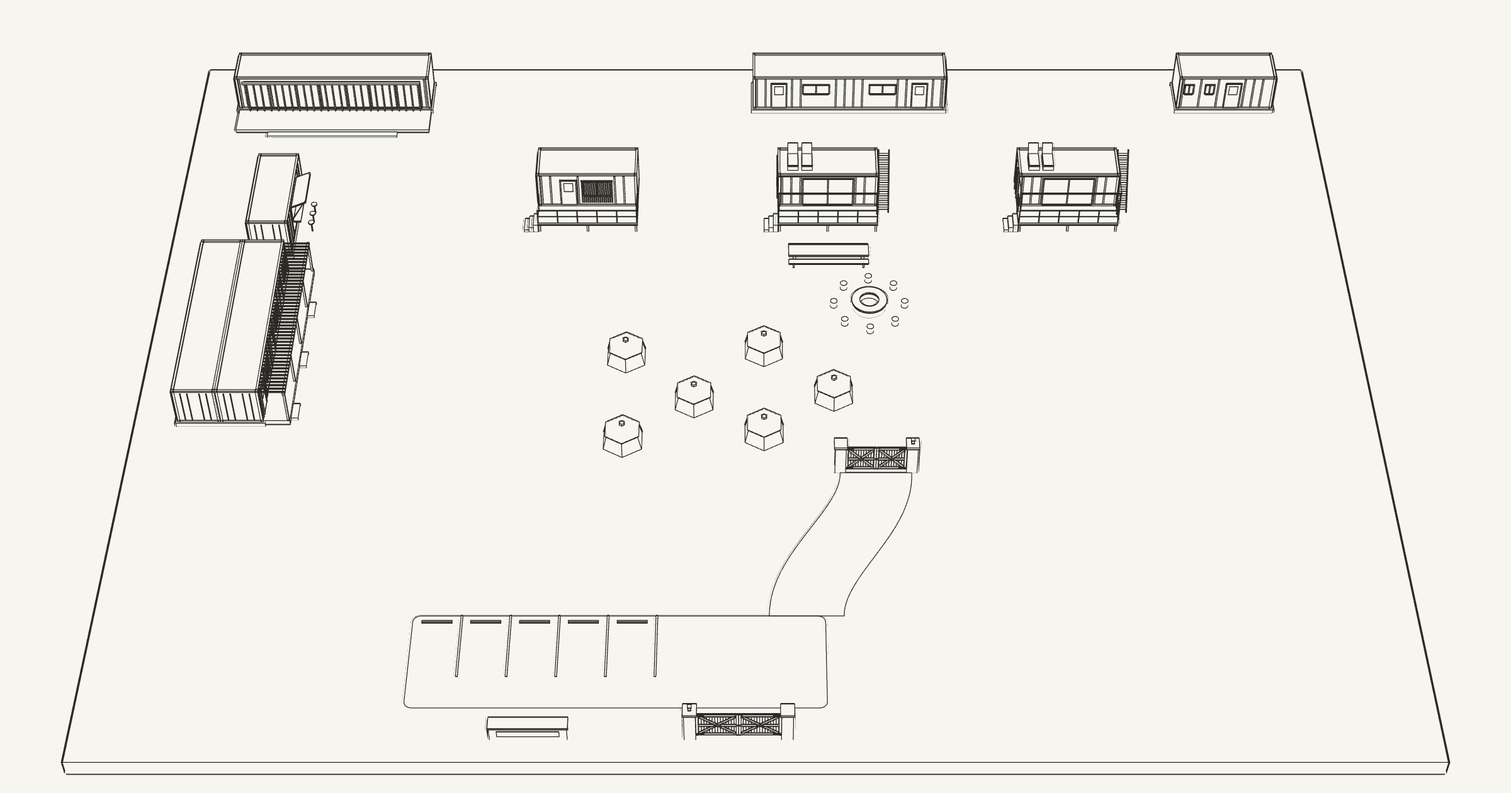
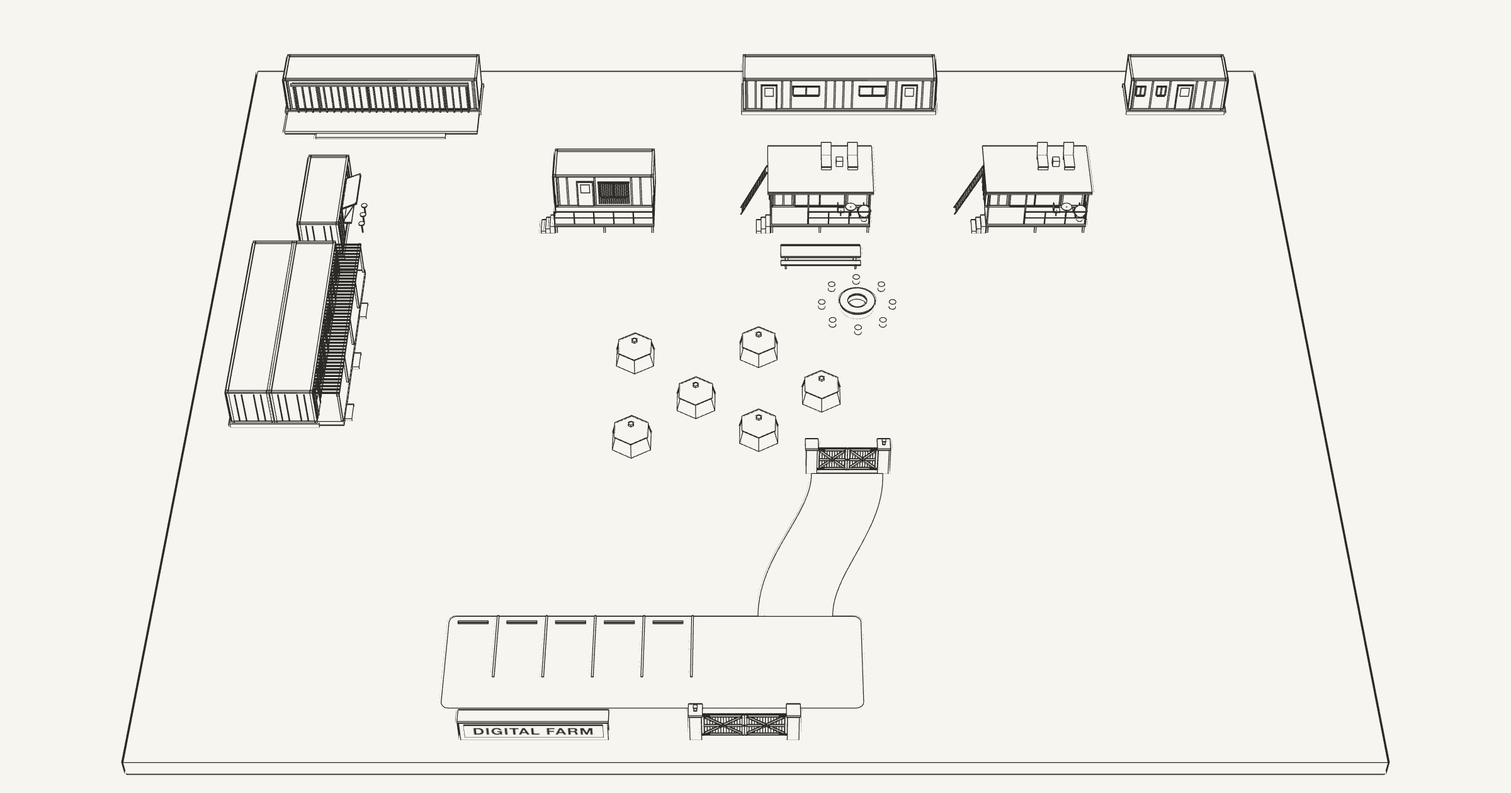
feat(home): road back in place, studios after their hero, LED sign
The founder asked for a little less sideways space, the rock road back
where it sat, the studios in the 3D to follow the hero image on
/en/studio, and a sign that clearly reads Digital Farm in LED.

The buildings now spread at 1.8. The way in (gates, sign wall, parking,
rock road) keeps the 1.5 it had (compound.json spread.wayIn), so the road
again leaves the parking well inside its east end in both drawings.

The studios go yellow under a dark steel roof that reaches over the deck
on three posts. The 3D adds a half-open dark-framed slider, the louvred
window, the rail from the middle post, a ladder at the near end where the
studio design puts its stair, timber loungers, a bistro set and a plant.
The 2D draws the ladder, rail and window.

The sign wall grows to 7.6 m with a dark steel panel of warm LED capitals.
The alt text, render brief and D-022 match.

Claude-Session: https://claude.ai/code/session_01S6J7Hi5HC8BwLHu6Wj1ANE

diff --git a/scripts/site/render/compound.html b/scripts/site/render/compound.html
@@ -6,7 +6,8 @@
   the road and the trees, and it is mirrored the way the 2D is (study room at the back, guest rooms on the
   left, D-022). Details follow the 2026-10-25 footage (public/footage): corrugated walls, white-framed
   sliding doors, red pipe railings with the deck stairs at their ends, a concrete cap on the fire pit,
-  hexagonal pop-up tents. Rendered two ways:
+  hexagonal pop-up tents. The studios follow the studio's hero (/en/studio, render/studio-hero.jpg), and the
+  sign wall carries DIGITAL FARM in LED letters. Rendered two ways:
 
     ?mode=line  line drawing in the page's ink        -> public/designs/compound/render/compound-line.png
     ?mode=real  paint, timber, stone, sun and shadow  -> public/designs/compound/render/compound-real.webp
@@ -47,13 +48,17 @@ const [FW, FH] = [2400, 1260]
 const C = await (await fetch(`/src/components/home/compound.json?${Date.now()}`)).json()
 const INK = "#2b2a26", PAGE = "#f7f5ef" // the farm theme's soil and chalk
 const HC = 2.591 // a container's height
-// The 2D sets the compound half as far apart again sideways for a wide screen (compound.json's spread),
-// every building at its true size; the model takes the same positions, so it reads as the 2D does.
+// The 2D sets the compound apart sideways for a wide screen (compound.json's spread), every building at its
+// true size; the model takes the same positions, so it reads as the 2D does. The way in (gates, sign wall,
+// parking, rock road) keeps its own, smaller spread, as on the 2D.
 {
-  const { factor, mid } = C.spread
-  const SX = (x) => mid + (x - mid) * factor
-  const shift = (x0, x1) => SX((x0 + x1) / 2) - (x0 + x1) / 2
-  const moveBox = (b) => { const d = shift(b[0], b[2]); return [b[0] + d, b[1], b[2] + d, b[3]] }
+  const spreadBy = (k) => {
+    const SX = (x) => C.spread.mid + (x - C.spread.mid) * k
+    const shift = (x0, x1) => SX((x0 + x1) / 2) - (x0 + x1) / 2
+    return { SX, shift, moveBox: (b) => { const d = shift(b[0], b[2]); return [b[0] + d, b[1], b[2] + d, b[3]] } }
+  }
+  const { SX, moveBox } = spreadBy(C.spread.factor)
+  const way = spreadBy(C.spread.wayIn)
   for (const u of C.units) u.box = moveBox(u.box)
   const unit = Object.fromEntries(C.units.map((u) => [u.id, u]))
   const rooms = unit.rooms.box
@@ -62,12 +67,12 @@ const HC = 2.591 // a container's height
   unit.bar.box = [rooms[2] - bw, unit.bar.box[1], rooms[2], unit.bar.box[3]]
   const sw = unit.study.box[2] - unit.study.box[0]
   unit.study.box = [rooms[0], unit.study.box[1], rooms[0] + sw, unit.study.box[3]]
-  const p = shift(C.parking.box[0], C.parking.box[2])
+  const p = way.shift(C.parking.box[0], C.parking.box[2])
   C.parking.box = [C.parking.box[0] + p, C.parking.box[1], C.parking.box[2] + p, C.parking.box[3]]
   C.parking.bays = C.parking.bays.map((x) => x + p)
-  C.sign = moveBox(C.sign)
-  for (const g of [C.gate, C.innerGate]) { const d = shift(g.x[0], g.x[1]); g.x = [g.x[0] + d, g.x[1] + d] }
-  C.rockRoad.curve = C.rockRoad.curve.map(([x, z]) => [SX(x), z])
+  C.sign = way.moveBox(C.sign)
+  for (const g of [C.gate, C.innerGate]) { const d = way.shift(g.x[0], g.x[1]); g.x = [g.x[0] + d, g.x[1] + d] }
+  C.rockRoad.curve = C.rockRoad.curve.map(([x, z]) => [way.SX(x), z])
   C.courtyard.firePit = [SX(C.courtyard.firePit[0]), ...C.courtyard.firePit.slice(1)]
   const cb = C.courtyard.box // the lawn widens with the spread
   C.courtyard.box = [SX(cb[0]), cb[1], SX(cb[2]), cb[3]]
@@ -234,10 +239,36 @@ const TILE = { corr: [0.278, 2.6], boards: [1.4, 1.4], grass: [9, 9], meadow: [1
 const MAP = { saffron: "corr", oxide: "corr", teal: "corr", timber: "boards", lawn: "grass", meadow: "meadow",
   murram: "murram", pavers: "pavers", setts: "setts", stone: "stone", water: "water" }
 
+// DIGITAL FARM for the sign's panel, sized to it: LED letters in warm white with their glow on dark steel,
+// or plain letters in the page's ink for the line drawing. Drawn mirrored, as the model is, so it reads.
+function ledTexture() {
+  const [x0, , x1] = C.sign, W = 2048, H = Math.round(W / (x1 - x0 - 0.5)), text = "DIGITAL FARM"
+  const c = document.createElement("canvas"); c.width = W; c.height = H
+  const g = c.getContext("2d")
+  g.fillStyle = LINE ? PAGE : "#1b1c1e"; g.fillRect(0, 0, W, H)
+  g.translate(W, 0); g.scale(-1, 1)
+  const font = (s) => { g.font = `700 ${s}px "Helvetica Neue", Helvetica, Arial, sans-serif`; g.letterSpacing = `${s * 0.06}px` }
+  font(100)
+  const size = (100 * W * 0.88) / g.measureText(text).width
+  font(size)
+  const m = g.measureText(text), y = H / 2 + (m.actualBoundingBoxAscent - m.actualBoundingBoxDescent) / 2
+  g.textAlign = "center"
+  if (LINE) { g.fillStyle = INK; g.fillText(text, W / 2, y) }
+  else {
+    g.shadowColor = "rgba(255, 210, 140, 0.9)"
+    for (const [blur, fill] of [[size * 0.3, "#ffd99a"], [size * 0.1, "#ffeccc"], [0, "#fff9ee"]]) {
+      g.shadowBlur = blur; g.fillStyle = fill; g.fillText(text, W / 2, y)
+    }
+  }
+  const t = new THREE.CanvasTexture(c)
+  t.colorSpace = THREE.SRGBColorSpace; t.anisotropy = 8
+  return t
+}
+
 // ------------------------------------------------------------ materials
 const PAINT = { saffron: "#d9a21b", oxide: "#8a3227", teal: "#3e8a86" }
 // thin parts get crease lines but no silhouette, so railings and slats stay fine in the line drawing
-const THIN = new Set(["red", "white-frame", "steel", "black", "slat", "cable", "frame-saffron", "frame-oxide", "frame-teal"])
+const THIN = new Set(["red", "white-frame", "steel", "black", "slat", "cable", "louvre", "frame-saffron", "frame-oxide", "frame-teal"])
 const MAT = {}
 function mat(name) {
   if (MAT[name]) return MAT[name]
@@ -249,7 +280,12 @@ function mat(name) {
     return (MAT[name] = m)
   }
   let x
-  if (LINE) {
+  if (name === "led") {
+    const map = ledTexture()
+    x = LINE ? new THREE.MeshBasicMaterial({ map })
+      : new THREE.MeshStandardMaterial({ map, emissiveMap: map, emissive: "#ffffff", emissiveIntensity: 1.6, roughness: 0.45, metalness: 0.2 })
+    x.userData.outlineParameters = { visible: false }
+  } else if (LINE) {
     if (name === "glass" || name === "canopy") x = new THREE.MeshBasicMaterial({ color: PAGE, transparent: true, opacity: 0, depthWrite: false })
     else x = new THREE.MeshBasicMaterial({ color: PAGE, polygonOffset: true, polygonOffsetFactor: 1, polygonOffsetUnits: 1 })
     if (THIN.has(name)) x.userData.outlineParameters = { visible: false }
@@ -276,6 +312,10 @@ function mat(name) {
       glass: () => new THREE.MeshPhysicalMaterial({ color: "#d3e3e8", roughness: 0.05, metalness: 0.1, transparent: true, opacity: 0.42, depthWrite: false }),
       canopy: () => new THREE.MeshPhysicalMaterial({ color: "#c7d3cc", roughness: 0.1, transparent: true, opacity: 0.32, depthWrite: false }),
       inside: () => std({ color: "#3b3631", roughness: 0.9 }),
+      room: () => std({ color: "#b8a993", roughness: 0.9 }), // a studio's lit room through its open slider
+      roofsheet: () => std({ color: "#4a4743", roughness: 0.6, metalness: 0.3 }), // the studios' dark steel roof
+      louvre: () => std({ color: "#dde2df", roughness: 0.2, metalness: 0.1 }), // glass blades
+      terracotta: () => std({ color: "#b0602f", roughness: 0.85 }),
       timber: () => std({ map: T.boards, color: "#ffffff", roughness: 0.75 }),
       slat: () => std({ color: "#b98250", roughness: 0.75 }),
       stone: () => std({ map: T.stone, color: "#ffffff", roughness: 0.95 }),
@@ -445,11 +485,15 @@ function gate({ x: [l, r], y, post: p }, h, lanternSide) {
   group(() => leaf(len, h), [r - 0.005, 0.03, y], 0).scale.x = -1 // the other leaf, mirrored, braced face out too
 }
 gate(C.gate, 1.8, "left")
+// the sign wall beside the gate: fieldstone under a timber cap as the pillars, and facing the approach a dark
+// steel panel with DIGITAL FARM in LED letters
 {
-  const [x0, z0, x1, z1] = C.sign
-  blk(x0, z0, x1, z1, 0, 1.0, "stone")
-  blk(x0 - 0.05, z0 - 0.05, x1 + 0.05, z1 + 0.05, 1.0, 1.08, "stone")
-  blk(x0 + 0.4, z0 - 0.03, x1 - 0.4, z0, 0.35, 0.75, "steel") // the brushed-steel name plate
+  const [x0, z0, x1, z1] = C.sign, h = 1.6
+  blk(x0, z0, x1, z1, 0, h, "stone")
+  blk(x0 - 0.06, z0 - 0.06, x1 + 0.06, z1 + 0.06, h, h + 0.12, "gatewood")
+  const [p0, p1, q0, q1] = [x0 + 0.25, x1 - 0.25, 0.35, 1.35]
+  blk(p0, z0 - 0.05, p1, z0, q0, q1, "black")
+  add(new THREE.PlaneGeometry(p1 - p0, q1 - q0), "led", { pos: [(p0 + p1) / 2, (q0 + q1) / 2, z0 - 0.052], rot: [0, Math.PI, 0], noEdges: true, noShadow: true })
 }
 
 // green parking: grass pavers, stone strips between the bays, eucalyptus wheel stops
@@ -527,22 +571,25 @@ function skipRibs(wall, a0, a1) {
   const w = walls.find((v) => v.axis === wall.axis && v.out === wall.out && Math.abs(v.at - wall.at) < 0.05 && a1 > v.a0 - 0.5 && a0 < v.a1 + 0.5)
   if (w) w.skip.push([a0 - 0.1, a1 + 0.1])
 }
+// kinds: door, barred, glazed (white frames), slider (dark frames, the near half slid open), louvre
 function opening(wall, a0, a1, b0, b1, kind) {
   skipRibs(wall, a0, a1)
-  const trim = kind === "glazed" ? "white-frame" : "red"
+  const trim = kind === "glazed" ? "white-frame" : kind === "slider" || kind === "louvre" ? "black" : "red"
   const put = (u0, u1, v0, v1, w0, w1, name) => wall.axis === "x"
     ? blk(wall.at + wall.out * w0, u0, wall.at + wall.out * w1, u1, v0, v1, name)
     : blk(u0, wall.at + wall.out * w0, u1, wall.at + wall.out * w1, v0, v1, name)
   const f = 0.06
   const fill = kind === "door" ? "door" : "glass"
-  if (kind !== "door") put(a0, a1, b0, b1, -0.005, 0.01, "inside")
-  put(a0, a1, b0, b1, 0.012, 0.03, fill)
+  if (kind !== "door") put(a0, a1, b0, b1, -0.005, 0.01, kind === "slider" ? "room" : "inside")
+  if (kind === "slider") put((a0 + a1) / 2, a1, b0, b1, 0.012, 0.03, "glass")
+  else if (kind !== "louvre") put(a0, a1, b0, b1, 0.012, 0.03, fill)
   if (kind === "door") put(a0 + 0.18, a1 - 0.18, b0 + (b1 - b0) * 0.55, b1 - 0.2, 0.03, 0.04, "glass")
   put(a0 - f, a0, b0, b1 + f, 0, 0.055, trim); put(a1, a1 + f, b0, b1 + f, 0, 0.055, trim)
   put(a0, a1, b1, b1 + f, 0, 0.055, trim)
   if (kind !== "door") put(a0, a1, b0 - f, b0, 0, 0.07, trim)
   if (kind === "barred") for (let a = a0 + 0.2; a < a1 - 0.1; a += 0.2) put(a - 0.012, a + 0.012, b0, b1, 0.035, 0.06, "red")
-  if (kind === "glazed") { // sliding panels: a mullion every 1.5 m or so
+  if (kind === "louvre") for (let b = b0 + 0.07; b < b1 - 0.03; b += 0.1) put(a0, a1, b - 0.015, b + 0.015, 0.015, 0.05, "louvre")
+  if (kind === "glazed" || kind === "slider") { // sliding panels: a mullion every 1.5 m or so
     const n = Math.max(2, Math.round((a1 - a0) / 1.5))
     for (let i = 1; i < n; i++) { const a = a0 + ((a1 - a0) * i) / n; put(a - 0.03, a + 0.03, b0, b1, 0.01, 0.05, trim) }
   }
@@ -613,28 +660,46 @@ function rowUnit(u) {
     pipe([a[0], y0 + 0.5, a[1]], [b[0], y0 + 0.5, b[1]], 0.016, "red")
   }
   const r = front + 0.03, stair = front + 1.0
-  rail([x0 + 0.03, z0], [x0 + 0.03, stair]); rail([x0 + 0.03, r], [x1 - 0.03, r]); rail([x1 - 0.03, r], [x1 - 0.03, z0])
+  // a studio's rail runs from the middle post to the far end, as its hero; the office's goes round
+  if (u.terrace) rail([x0 + 2.3, r], [x1 - 0.03, r])
+  else { rail([x0 + 0.03, z0], [x0 + 0.03, stair]); rail([x0 + 0.03, r], [x1 - 0.03, r]) }
+  rail([x1 - 0.03, r], [x1 - 0.03, z0])
   for (let k = 1; k <= 3; k++) blk(x0 - 0.28 * (4 - k), front, x0 - 0.28 * (3 - k), stair, 0, 0.2 * k, "timber")
   const wall = { axis: "z", at: z0, out: -1 }
   if (u.terrace) {
-    opening(wall, cx - 1.5, cx + 1.5, y0 + 0.16, y0 + 2.25, "glazed")
-    // the tinted clear canopy over the deck, on a slim steel edge
-    blk(x0, front, x1, z0, y0 + 2.42, y0 + 2.45, "canopy", { noShadow: true })
-    blk(x0, front, x1, front + 0.05, y0 + 2.38, y0 + 2.45, "black")
-    for (const x of [x0 + 0.05, x1 - 0.05]) blk(x - 0.025, front, x + 0.025, front + 0.05, y0 + 1.0, y0 + 2.38, "black")
-    // the open roof terrace with two loungers, no rail round it (the founder's call)
-    for (const x of [x0 + 0.9, x0 + 1.75]) {
-      blk(x - 0.32, z0 + 0.4, x + 0.32, z0 + 1.55, top, top + 0.3, "slat")
-      blk(x - 0.3, z0 + 0.45, x + 0.3, z0 + 1.5, top + 0.3, top + 0.36, "cushion")
-      group(() => blk(-0.3, 0, 0.3, 0.06, 0, 0.7, "cushion"), [x, top + 0.3, z0 + 1.5], 0).rotation.x = 0.5
+    // As the studio's hero (/en/studio): the sliding glass wall half open and a louvred window by the shower
+    // room (the studio's o1 and o2), a dark steel roof over the box and the deck on three slim posts, a steel
+    // ladder up the near end to two timber loungers and a side table (no rail round the roof, the founder's
+    // call), a bistro table, two chairs and a potted plant on the deck
+    opening(wall, cx - 1.5, cx + 1.5, y0 + 0.16, y0 + 2.25, "slider")
+    opening(wall, x0 + 5.12, x0 + 5.64, y0 + 1.31, y0 + 2.2, "louvre")
+    const roof = top + 0.1
+    blk(x0 - 0.15, front - 0.05, x1 + 0.15, z1 + 0.15, top + 0.02, roof, "roofsheet")
+    blk(x0 - 0.15, front - 0.07, x1 + 0.15, front - 0.03, top - 0.05, roof, "black") // its front edge
+    for (const x of [x0 + 0.05, x0 + 2.3, x1 - 0.05]) blk(x - 0.03, front + 0.01, x + 0.03, front + 0.07, y0, top + 0.02, "black")
+    for (const x of [x0 + 3.4, x0 + 5.0]) {
+      for (const z of [z0 + 0.45, z0 + 1.4]) blk(x - 0.3, z, x + 0.3, z + 0.06, roof, roof + 0.24, "slat")
+      blk(x - 0.3, z0 + 0.4, x + 0.3, z0 + 1.5, roof + 0.24, roof + 0.3, "slat")
+      group(() => blk(-0.3, 0, 0.3, 0.05, 0, 0.8, "slat"), [x, roof + 0.27, z0 + 1.45], 0).rotation.x = 0.55
     }
-    // a slim steel stair up the east end to the roof
-    const [s0, s1] = [x1 + 0.08, x1 + 0.72], [t0, t1] = [z0 + 0.25, z1 - 0.2]
-    for (const x of [s0, s1]) bar([x, 0, t0], [x, top, t1], 0.05, "black")
-    for (let i = 1; i <= 13; i++) {
-      const k = i / 14, z = t0 + (t1 - t0) * k, y = top * k
-      blk(s0, z - 0.09, s1, z + 0.09, y - 0.025, y, "black")
+    blk(x0 + 4.0, z0 + 0.75, x0 + 4.4, z0 + 1.15, roof, roof + 0.42, "slat")
+    // the ladder from 1.8 m out at the near end, as the studio's own stair (scene.json outdoor.sx0)
+    const [l0, l1, foot] = [z0 + 0.2, z0 + 0.8, x0 - 1.8]
+    for (const z of [l0, l1]) bar([foot, 0, z], [x0 - 0.2, roof, z], 0.05, "black") // to the roof's edge
+    for (let i = 1; i <= 14; i++) {
+      const k = i / 15, x = foot + (x0 - 0.2 - foot) * k
+      blk(x - 0.03, l0, x + 0.03, l1, roof * k - 0.025, roof * k, "black")
     }
+    const [bx, bz] = [x0 + 4.9, front + 0.75]
+    cyl(bx, bz, 0.03, y0, 0.72, "black", 8); cyl(bx, bz, 0.32, y0 + 0.72, 0.03, "black", 20)
+    for (const s of [-1, 1]) {
+      const sx = bx + s * 0.6
+      cyl(sx, bz, 0.02, y0, 0.44, "black", 6)
+      blk(sx - 0.2, bz - 0.2, sx + 0.2, bz + 0.2, y0 + 0.44, y0 + 0.47, "black")
+      blk(sx + s * 0.17, bz - 0.2, sx + s * 0.2, bz + 0.2, y0 + 0.47, y0 + 0.9, "black")
+    }
+    cyl(x1 - 0.35, front + 0.4, 0.17, y0, 0.42, "terracotta", 16, 0.23)
+    add(new THREE.IcosahedronGeometry(0.34, 1), "leaf", { pos: [x1 - 0.35, y0 + 0.72, front + 0.4] })
   } else { // the office: a glazed door, a window behind a slatted timber screen
     opening(wall, cx - 1.6, cx - 0.7, y0 + 0.16, y0 + 2.1, "door")
     opening(wall, cx - 0.2, cx + 1.4, y0 + 0.9, y0 + 2.0, "glazed")

diff --git a/src/components/home/compound-plan.tsx b/src/components/home/compound-plan.tsx
@@ -13,13 +13,18 @@ type Unit = (typeof compound.units)[number]
 // bottom, guest rooms and bar on the left), then spread it sideways for a wide screen: positions move
 // apart across the drawing, every building keeps its size.
 const SIZE = 46
-const { factor: SPREAD, mid: MID } = compound.spread
-const X = (x: number) => MID + (x - MID) * SPREAD
-const P = ([x, y]: Point) => [X(x), SIZE - y]
-const B = ([x0, y0, x1, y1]: Box) => {
-  const shift = X((x0 + x1) / 2) - (x0 + x1) / 2
-  return [x0 + shift, SIZE - y1, x1 + shift, SIZE - y0]
+const spreadBy = (factor: number) => {
+  const X = (x: number) => compound.spread.mid + (x - compound.spread.mid) * factor
+  const P = ([x, y]: Point) => [X(x), SIZE - y]
+  const B = ([x0, y0, x1, y1]: Box) => {
+    const shift = X((x0 + x1) / 2) - (x0 + x1) / 2
+    return [x0 + shift, SIZE - y1, x1 + shift, SIZE - y0]
+  }
+  return { X, P, B }
 }
+const { P, B } = spreadBy(compound.spread.factor)
+// the way in (gates, sign wall, parking, rock road) keeps the places it had before the buildings spread further
+const WAY = spreadBy(compound.spread.wayIn)
 // The frame follows the spread: from past the guest rooms' labels to past the furthest building.
 const VIEW = [
   Math.min(...compound.units.map((u) => B(u.box)[0])) - 4.2,
@@ -174,15 +179,25 @@ function RowUnit({ unit, dimension }: { unit: Unit; dimension?: boolean }) {
   const deck = unit.deck ?? 1.5
   const cx = f((x0 + x1) / 2)
   const edge = f(y1 + deck)
+  // a studio as its hero (/en/studio): the rail from the middle post to the far end, the deck open toward the
+  // ladder, which climbs the near end to the roof from 1.8 m out, and a louvred window beside the slider
+  const ladder = [f(x0 - 1.8), f(y1 - 0.8), x0, f(y1 - 0.2)]
   return (
     <g>
       <rect {...at([x0, y1, x1, edge])} {...thin} />
-      <path d={`M${f(cx - 0.6)} ${edge}H${x0}V${y1}M${f(cx + 0.6)} ${edge}H${x1}V${y1}`} {...medium} />
+      <path
+        d={unit.terrace ? `M${f(x0 + 2.3)} ${edge}H${x1}V${y1}` : `M${f(cx - 0.6)} ${edge}H${x0}V${y1}M${f(cx + 0.6)} ${edge}H${x1}V${y1}`}
+        {...medium}
+      />
       <rect {...at([x0, y0, x1, y1])} {...wall} />
       {unit.terrace ? (
         <>
           <Glazing a={[f(cx - 1.5), y1]} b={[f(cx + 1.5), y1]} />
-          <rect {...at([x1, y0 + 0.15, x1 + 0.75, y1 - 0.15])} {...thin} />
+          <Glazing a={[f(x0 + 5.12), y1]} b={[f(x0 + 5.64), y1]} />
+          <path
+            d={`M${ladder[0]} ${ladder[1]}H${ladder[2]}M${ladder[0]} ${ladder[3]}H${ladder[2]}${[0.3, 0.6, 0.9, 1.2, 1.5].map((k) => `M${f(x0 - k)} ${ladder[1]}V${ladder[3]}`).join("")}`}
+            {...thin}
+          />
         </>
       ) : (
         <>
@@ -323,16 +338,16 @@ export function CompoundPlan({ title, className }: { title: string; className?: 
   const row = compound.units.filter((u) => u.kind === "20" && u.front === "north")
   const turn = (g: { x: Point; y: number; post: number }) => {
     const [l, r] = [g.x[0], g.x[1]]
-    const shift = X((l + r) / 2) - (l + r) / 2
+    const shift = WAY.X((l + r) / 2) - (l + r) / 2
     return { x: [l + shift, r + shift], y: SIZE - g.y, post: g.post }
   }
-  const parkingShift = B(parking.box)[0] - parking.box[0]
-  const road = compound.rockRoad.curve.map(P)
+  const parkingShift = WAY.B(parking.box)[0] - parking.box[0]
+  const road = compound.rockRoad.curve.map(WAY.P)
   const roadPath = `M${road[0].join(" ")}C${road[1].join(" ")} ${road[2].join(" ")} ${road[3].join(" ")}`
-  const [px0, py0, px1, py1] = B(parking.box)
+  const [px0, py0, px1, py1] = WAY.B(parking.box)
   const [pitX, pitY] = P(courtyard.firePit)
   const [, , pitR, pitInner] = courtyard.firePit
-  const sign = B(compound.sign)
+  const sign = WAY.B(compound.sign)
   const [, cy0, cx1] = B(courtyard.box)
   return (
     <svg viewBox={`${VIEW[0]} ${VIEW[1]} ${VIEW[2] - VIEW[0]} ${VIEW[3] - VIEW[1]}`} role="img" aria-label={title} className={className}>

diff --git a/src/components/home/copy.ts b/src/components/home/copy.ts
@@ -57,8 +57,8 @@ export const copy = {
   },
   model: {
     title: "3D",
-    line: "Line drawing of the compound seen from the front, from high beyond the gates: the gate and the sign wall, the parking and the rock road up to the inner gate; inside, six small tents and the fire pit ringed with stools on the lawn, with the bar and the guest rooms on the left; beyond the long timber table, the office and two studios on raised decks; at the back the study room, the galley and the public bathroom.",
-    real: "The same view rendered with materials and sunlight: corrugated containers in saffron yellow, oxide red and teal, timber decks with red pipe railings, white-framed sliding doors, hexagonal canvas tents (one with a green fly), the stone fire pit with its concrete cap and log stools, a long timber table, timber gates braced in an X, grass parking and a road of granite setts.",
+    line: "Line drawing of the compound seen from the front, from high beyond the gates: the gate and the sign wall lettered DIGITAL FARM, the parking and the rock road up to the inner gate; inside, six small tents and the fire pit ringed with stools on the lawn, with the bar and the guest rooms on the left; beyond the long timber table, the office and two studios on raised decks, each studio under a flat roof that reaches over its deck, with a ladder at its end up to two loungers; at the back the study room, the galley and the public bathroom.",
+    real: "The same view rendered with materials and sunlight: corrugated containers in saffron yellow, oxide red and teal, timber decks with red pipe railings, the two studios after their hero render (dark steel roofs over their decks on slim black posts, glass sliders half open, a steel ladder up to timber loungers, a bistro table and a potted plant), the sign wall's DIGITAL FARM in warm LED letters, hexagonal canvas tents (one with a green fly), the stone fire pit with its concrete cap and log stools, a long timber table, timber gates braced in an X, grass parking and a road of granite setts.",
     caption: "Rendered from the design model",
   },
   courtyard: {

diff --git a/study/website/render-brief.md b/study/website/render-brief.md
@@ -19,12 +19,12 @@ The homepage shows the compound as it is planned, not as it stands. Its images a
 
 ## 2. The planned compound (every render must agree)
 
-- **Entrance.** An outer gate of two timber leaves (vertical boards on a frame braced in an X, black iron strap hinges, D-022) stands between fieldstone pillars with timber caps and a lantern. Beside it, a low fieldstone sign wall carries the words **DIGITAL FARM**. Behind the gate are a green parking lawn of grass pavers under shade trees, a **rock road** of hand-laid grey granite setts laid in segmental arcs, and an **inner gate** of the same braced timber.
+- **Entrance.** An outer gate of two timber leaves (vertical boards on a frame braced in an X, black iron strap hinges, D-022) stands between fieldstone pillars with timber caps and a lantern. Beside it, a fieldstone sign wall under a timber cap (about 7.6 m long and 1.6 m high) carries **DIGITAL FARM** in warm-white LED capitals on a dark steel panel. Behind the gate are a green parking lawn of grass pavers under shade trees, a **rock road** of hand-laid grey granite setts laid in segmental arcs, and an **inner gate** of the same braced timber.
 - **Orientation (corrected by the founder on 2026-10-27, D-022).** North is the public road and the gates; the lake lies to the south, beyond a band of trees. Walking in from the gate you face the lake.
 - **The tenant courtyard.** A level lawn with the existing round fieldstone fire pit, laid out as an L (confirmed by the founder on 2026-10-26):
   - **The bar:** one 20 ft container in oxide red with a serving hatch and counter onto the courtyard (today's red kiosk), standing in the same line as the guest-room block, at its south end, at the corner of the L next to the office.
   - **West side (on the right as you walk in):** the guest-room block. Two 40 ft containers are joined side by side into one long, low saffron-yellow building, about 12 × 4.9 m. It holds three en-suite rooms, each about 19 m² [E, D-017] with a bed, shower and WC but no kitchen. Each room has an oxide-red door and window onto a shared eucalyptus veranda.
-  - **South side, at 90° (across the lawn as you walk in):** three 20 ft containers in a row on the existing raised oxide-red steel decks, their decks facing the courtyard. The **first, next to the guest rooms, is the farm office** in saffron yellow; the other two are **studios** in deep oxide red, built to the studio design (`/en/studio`, Layout B, D-020): a 3 m sliding glass wall onto a deck under a tinted clear canopy, a galley kitchen, a two-seat sofa, a shower and WC, and an open roof terrace behind a post-and-rail guardrail, with no canopy over it.
+  - **South side, at 90° (across the lawn as you walk in):** three 20 ft containers in a row on the existing raised oxide-red steel decks, their decks facing the courtyard. The **first, next to the guest rooms, is the farm office** in saffron yellow; the other two are **studios** in saffron yellow, as the studio's hero render (`/en/studio`), built to the studio design (Layout B, D-020): a 3 m sliding glass wall in dark frames and a small louvred window onto a deck with red pipe rails, a dark steel roof over the container that runs out over the deck on slim black posts, a galley kitchen, a two-seat sofa, a shower and WC, and an open roof with two timber lounge chairs and a side table, reached by a steel ladder at the end.
   - **Further out, toward the lake:** one 40 ft **study and training room** in muted teal, its west end in line with the guest-room block, with tall glazed doors along its north side onto a timber deck.
 - **Outdoors (from the 2026-10-25 footage, D-022).** A small camping lawn between the guest rooms and the fire pit, ending at the fire pit's west edge and set a little toward the inner gate: six light-canvas pop-up dome tents (about 2.5 m across), doors toward the fire. Log stools in a ring round the fire pit. A long eucalyptus table with two benches on the lawn in front of the middle studio, where today's unfinished timber platform stands.
 - **Seven containers in all** (the bar, the joined pair, the office, two studios, the study room). Nothing is stacked, and nothing else is built. The compound sits back from the lake behind a band of trees; nothing new stands at the water's edge (the 50 m lake buffer).
@@ -50,7 +50,7 @@ Use the reference photos for the place — landscape, lake, light, ground and th
 References: `assets/reference/gate/` (IMG_3159 at 0 s, IMG_3160 at 8.9 s). The homepage opens on this frame, and the hero video starts from it.
 
 ```text
-The farm's entrance at golden hour, seen at eye level from the public dirt road. New timber gates of vertical boards on a frame braced in an X, with black iron strap hinges, both leaves open, between two square fieldstone pillars with timber caps and a lantern. Beside the left post, a low fieldstone sign wall (about 1 m high and 3 m long) with raised brushed-steel capital letters reading exactly DIGITAL FARM in a clean geometric sans-serif, the only text in the image. Through the gate, a green parking lawn under young shade trees, then the tops of saffron-yellow and oxide-red containers in front of tall eucalyptus with a glimpse of lake. Euphorbia hedges run away from both posts; red laterite verge; warm low sun from the right; long soft shadows. 24 mm lens, camera 1.6 m high, centred one-point perspective.
+The farm's entrance at golden hour, seen at eye level from the public dirt road. New timber gates of vertical boards on a frame braced in an X, with black iron strap hinges, both leaves open, between two square fieldstone pillars with timber caps and a lantern. Beside the left post, a fieldstone sign wall under a timber cap (about 1.6 m high and 7.6 m long) with a dark steel panel of warm-white LED capital letters, softly glowing, reading exactly DIGITAL FARM in a clean geometric sans-serif, the only text in the image. Through the gate, a green parking lawn under young shade trees, then the tops of saffron-yellow and oxide-red containers in front of tall eucalyptus with a glimpse of lake. Euphorbia hedges run away from both posts; red laterite verge; warm low sun from the right; long soft shadows. 24 mm lens, camera 1.6 m high, centred one-point perspective.
 ```
 
 For `gate-portrait`, add: `Composed vertically for a phone: the gate and the sign wall in the lower half, sky and trees above.`
@@ -84,7 +84,7 @@ The inner gate standing open: two timber leaves of vertical boards on a frame br
 References: `assets/reference/aerial/` (IMG_3191 at 0 s and 5.6 s, IMG_3164, the studio exterior render).
 
 ```text
-Drone photograph at golden hour, 35 degrees down from about 60 m, the layout clearly readable. Foreground: the outer gate and its fieldstone sign wall (letters too small to read), a green grass-paver parking area with shade trees, and a curving cobbled road to an inner gate. Middle: a rectangular lawn courtyard with a round fieldstone fire pit. On its right side, one long low saffron-yellow building made of two 40 ft containers joined side by side (12 by 4.9 m), with three oxide-red doors onto a timber veranda, then in the same line an oxide-red bar container with a serving hatch, at the corner of the L. Across the far side of the lawn, at a right angle, forming an L: three 20 ft containers in a row on raised oxide-red steel decks, a saffron-yellow office first next to the yellow building, then two oxide-red studios with open roof terraces behind guardrails. Further out toward the lake, on the right, one muted-teal 40 ft container with a glazed long side and a timber deck, its end in line with the yellow building. Stepping-stone paths, young trees and euphorbia hedges; red laterite at the edges; beyond the compound, a band of tall eucalyptus and the calm lake catching the light. Nothing else built.
+Drone photograph at golden hour, 35 degrees down from about 60 m, the layout clearly readable. Foreground: the outer gate and its fieldstone sign wall (letters too small to read), a green grass-paver parking area with shade trees, and a curving cobbled road to an inner gate. Middle: a rectangular lawn courtyard with a round fieldstone fire pit. On its right side, one long low saffron-yellow building made of two 40 ft containers joined side by side (12 by 4.9 m), with three oxide-red doors onto a timber veranda, then in the same line an oxide-red bar container with a serving hatch, at the corner of the L. Across the far side of the lawn, at a right angle, forming an L: three 20 ft containers in a row on raised oxide-red steel decks, a saffron-yellow office first next to the yellow building, then two saffron-yellow studios under dark steel roofs that run out over their decks, two timber lounge chairs on each roof and a steel ladder at the end. Further out toward the lake, on the right, one muted-teal 40 ft container with a glazed long side and a timber deck, its end in line with the yellow building. Stepping-stone paths, young trees and euphorbia hedges; red laterite at the edges; beyond the compound, a band of tall eucalyptus and the calm lake catching the light. Nothing else built.
 ```
 
 ### `rooms` · P0 · 16:9
@@ -108,7 +108,7 @@ Interior of one en-suite guest room inside the joined containers, about 4 m wide
 References: `assets/reference/studios/` (IMG_3164, IMG_3163 at 0 s, IMG_3196 at 29.3 s, the studio exterior render).
 
 ```text
-Eye level across the courtyard lawn to a row of three 20 ft containers, each on its own raised oxide-red steel deck about 0.8 m above the grass, with oxide-red tubular railings and new eucalyptus deck boards. Left and middle: the two studios, repainted deep oxide red, each with a 3 m sliding glass wall onto its deck, a tinted clear canopy over the deck, a small table and two chairs; on each roof an open terrace with two lounge chairs behind a post-and-rail guardrail (slim steel posts, a hardwood top rail, stainless cables), open to the sky with no canopy, reached by a slim black steel stair with a landing at the end. Right: the farm office, repainted saffron yellow, with a glazed door and a slatted timber sun screen. Behind the row, toward the lake on the right, the long teal study room; eucalyptus and the lake beyond. Golden hour; the stone fire pit at the edge of the frame. 24 mm lens, camera 1.6 m high.
+Eye level across the courtyard lawn to a row of three 20 ft containers, each on its own raised oxide-red steel deck about 0.8 m above the grass, with oxide-red tubular railings and new eucalyptus deck boards. Left and middle: the two studios, repainted saffron yellow as the studio's hero render, each with a 3 m sliding glass wall in dark frames standing half open and a small louvred window, a dark steel roof running out over the deck on slim black posts, red pipe rails along the deck, a bistro table with two chairs and a potted plant; on each roof two timber lounge chairs and a small side table, open to the sky, reached by a steel ladder at the end. Right: the farm office, repainted saffron yellow, with a glazed door and a slatted timber sun screen. Behind the row, toward the lake on the right, the long teal study room; eucalyptus and the lake beyond. Golden hour; the stone fire pit at the edge of the frame. 24 mm lens, camera 1.6 m high.
 ```
 
 ### `studio` · P0 · 16:9
@@ -164,7 +164,7 @@ Edit the attached photo; keep the exact camera position, framing, horizon, sky a
 ### `studios-planned` · P0 · 4:3
 
 ```text
-Edit the attached photo; keep the exact camera position and framing. The two red containers on the left become the studios: repainted deep oxide red, decks re-laid in honey-brown eucalyptus, tinted clear canopies over the decks, open roof terraces with lounge chairs behind post-and-rail guardrails, no canopy on the roofs. The yellow container on the right becomes the office, repainted saffron yellow with a slatted timber screen. Remove the unfinished timber platform, the props and the clutter; keep one round table with chairs on the lawn; trim the lawn. Same light. Photorealistic.
+Edit the attached photo; keep the exact camera position and framing. The two red containers on the left become the studios: repainted saffron yellow, decks re-laid in honey-brown eucalyptus, dark steel roofs over the containers running out over the decks on slim black posts, two timber lounge chairs and a side table on each roof, a steel ladder at the end. The yellow container on the right becomes the office, repainted saffron yellow with a slatted timber screen. Remove the unfinished timber platform, the props and the clutter; keep one round table with chairs on the lawn; trim the lawn. Same light. Photorealistic.
 ```
 
 ### `arrival-planned` · P1 · 16:9
@@ -219,7 +219,7 @@ A slow lateral dolly toward the open glass wall, revealing the deck and the lawn
 ## 7. QA before dropping a file in
 
 1. The sign reads exactly **DIGITAL FARM**: two words, with no extra or missing letters.
-2. The containers match §2: seven in all (the red bar, the joined yellow pair, the yellow office, two red studios, the teal 40 ft), none stacked or extra, colours right, eucalyptus decks.
+2. The containers match §2: seven in all (the red bar, the joined yellow pair, the yellow office, two yellow studios, the teal 40 ft), none stacked or extra, colours right, eucalyptus decks.
 3. The land looks like Bugesera: low hills, red soil, eucalyptus and the lake. No mountains, palms on a beach or safari props.
 4. There's no other legible text, no logo and no watermark.
 5. People are few and small, faces aren't recognisable, and there are no children.

diff --git a/study/execution/decision-log.md b/study/execution/decision-log.md
@@ -95,5 +95,7 @@ Update 2026-10-27 (D-022): the homepage 3D spans the full width like the 2D and 
 
 Update 2026-10-27 (D-022): after the founder's reference photos, both gates are timber (vertical boards on a frame braced in an X, black iron strap hinges, fieldstone pillars with timber caps and a lantern) and the rock road is grey granite setts laid in segmental arcs. The 2D and 3D set the compound twice as far apart sideways (compound.json spread 2.0). The 3D shows the studios' roofs without their rail, at the founder's request; the studio design (D-020) and the homepage text still have the guardrail.
 
+Update 2026-10-27 (D-022): the founder eased the sideways spread a little, to 1.8, and put the rock road back where it was: the way in (gates, sign wall, parking, rock road) keeps the 1.5 spread (compound.json `spread.wayIn`), so the road again leaves the parking well inside its east end. The 3D's studios follow the studio's hero render (/en/studio): saffron yellow instead of oxide red, the sliding glass wall in dark frames and half open, the studio's louvred window, a dark steel roof over the box running out over the deck on three slim posts, the deck rail from the middle post to the far end, a steel ladder from 1.8 m out at the near end (where the studio design puts its stair), two timber loungers and a side table on the roof, a bistro set and a potted plant on the deck; the 2D draws the ladder, the rail and the window. The sign wall grows to 7.6 m and carries DIGITAL FARM in warm-white LED capitals on a dark steel panel, legible in the 3D.
+
 **D-023 · 2026-10-27 · Studio plumbing: every pipe routed for real, the mixing valve on end wall B, and the plumbing shown on /en/studio like the electrics.**
 Context: the founder asked for a Plumbing section on /en/studio built like the Electric one. Drawing the pipes in 3D showed the generator's routes were schematic: six runs had diagonal legs, one crossing the shower to a valve on the wrong wall; the WC and basin cold feeds were not joined to the main; and the mixing valve (TMV) had no cold feed. The founder chose, from these options: the TMV moves from the partition corner to end wall B, behind a tiled access panel between the shower and the WC, so both mixed-water pipes run 1.2 m, where from the partition they would have run about 2.5 and 3.5 m, past the usual 2 m for a mixed-water dead leg; and the plumbing render shows the finished room with the galley's end panels cut away, so the heater, the stop valve and the filters show. Alternatives: keep the TMV by the partition; a first-fix render of the pipes before the walls close; no render. Consequence: the generator (`scripts/studio/services.py`) routes every run leg by leg: the main comes in under the floor and rises into the sink base through the stop valve, filter and meter; supplies run inside the units, the partition, the back wall's lining and end wall B, cold 300 mm and hot 360 mm above the floor, then straight up to each outlet; drains start at their outlets and fall under the floor as before; the vent rises in end B's back corner; a new cold run (W6) feeds the TMV. `validate.py` now fails a diagonal leg or a mixed-water run over 2 m. `fittings.csv` lists the 11 plumbing points, and /en/studio shows the water diagram, a tagged 3D view of the pipework, the cut-open render and each fitting on its own. The plumbing kit rises from about RWF 884,520 to 898,920 per studio, all placeholders [A, AS-21]. Revisit: when a licensed plumber lays out the installation.
